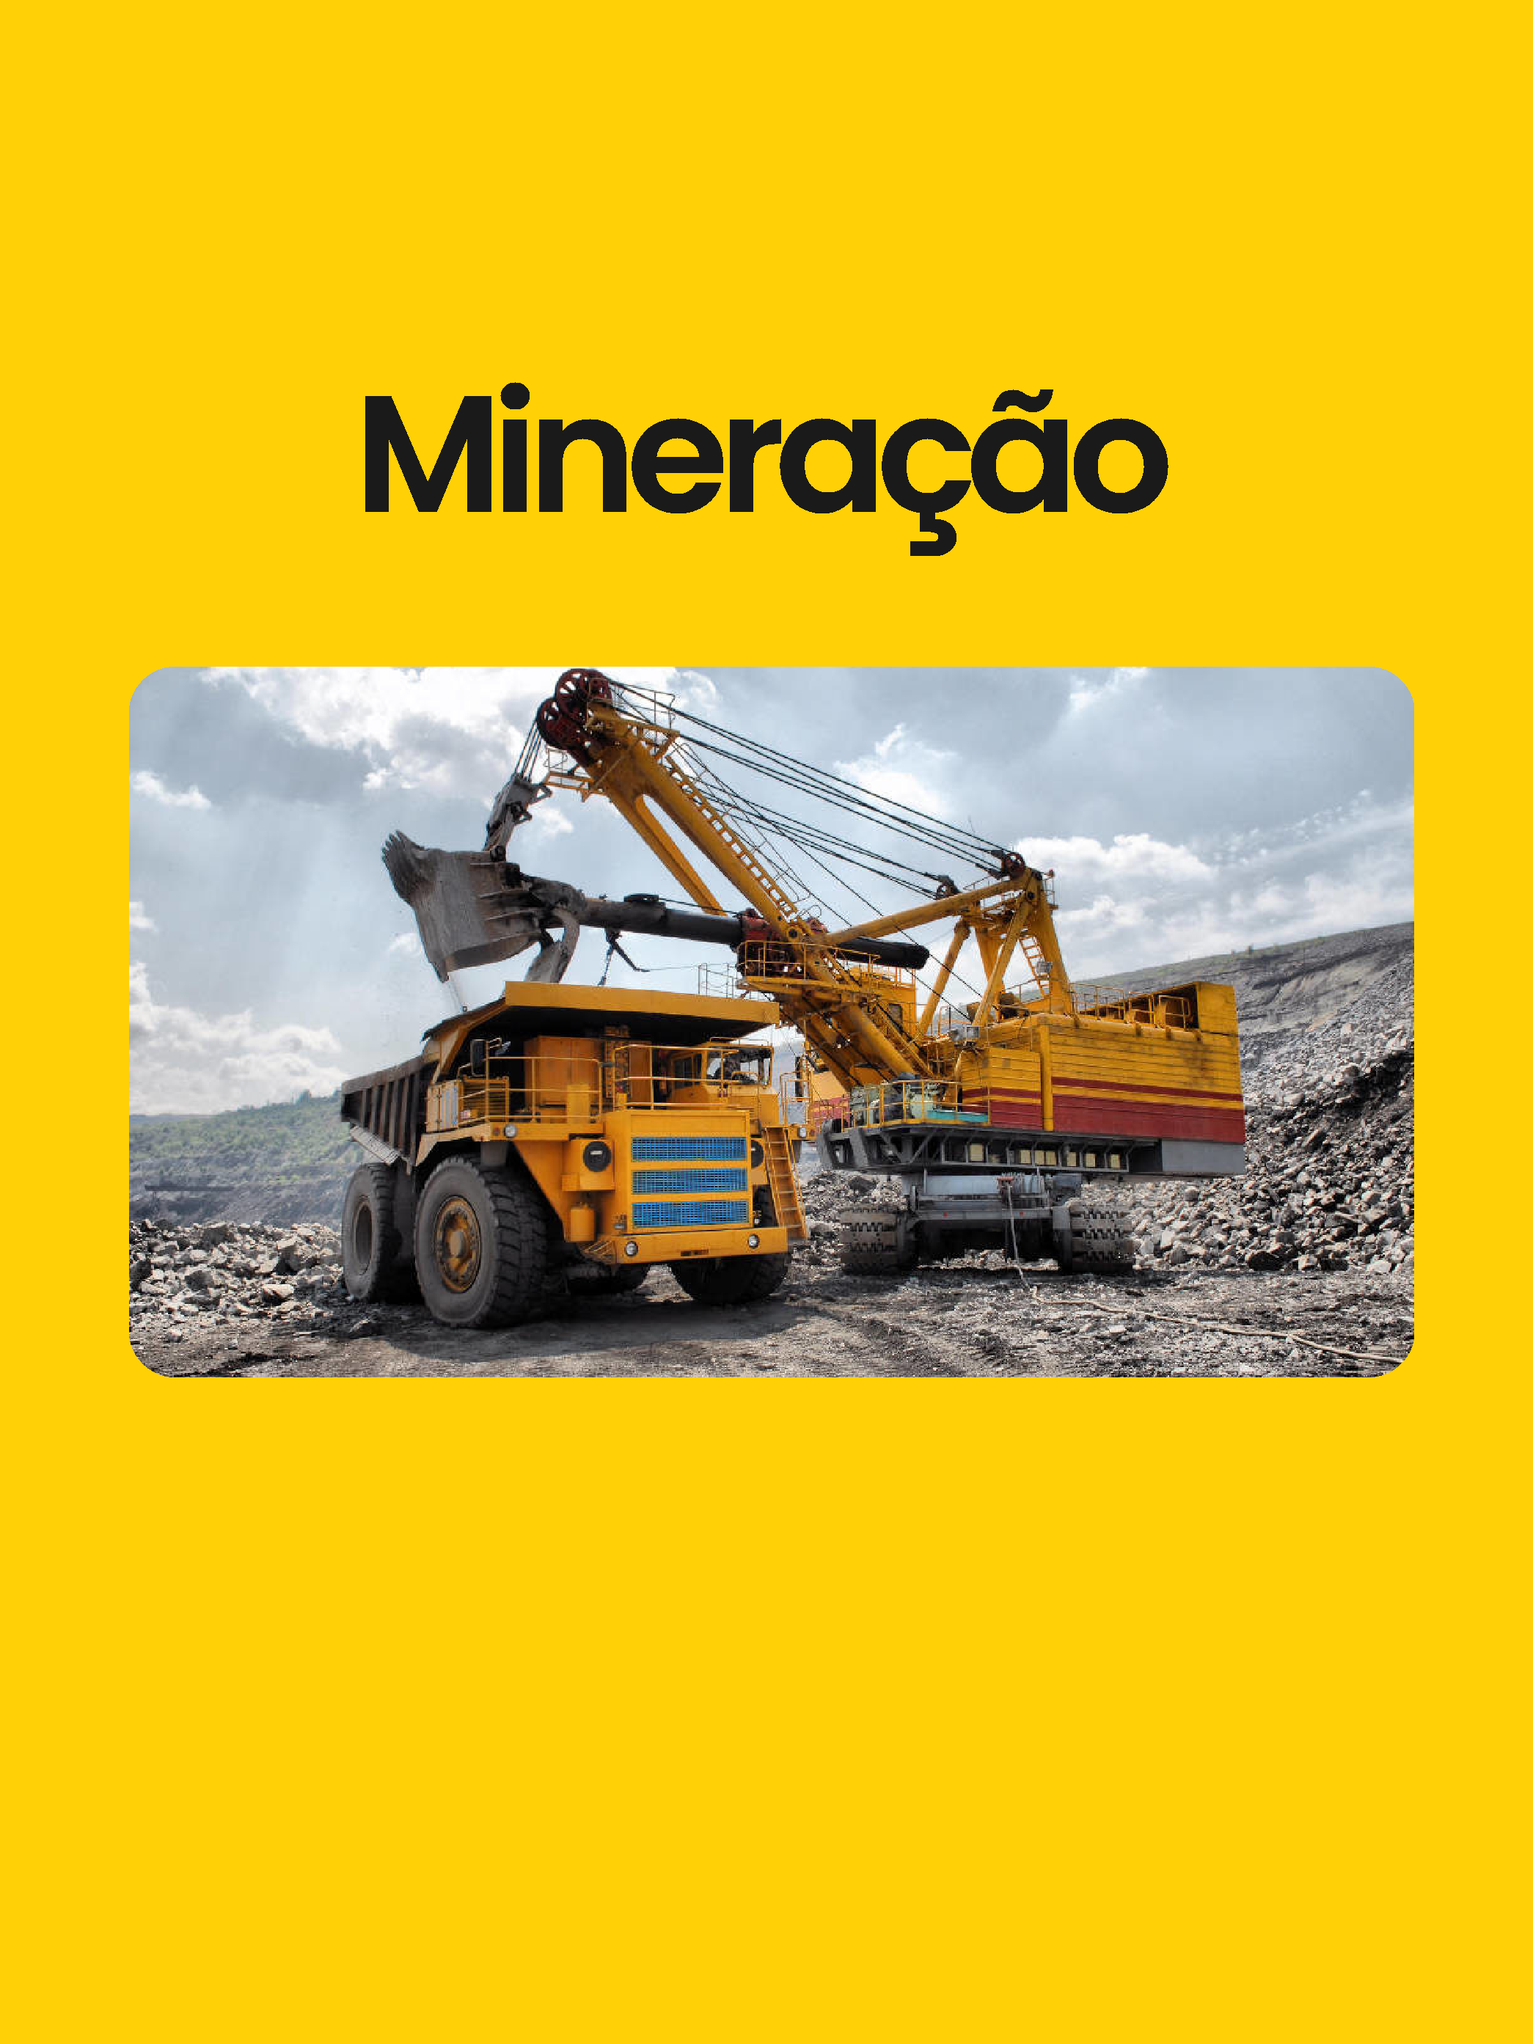
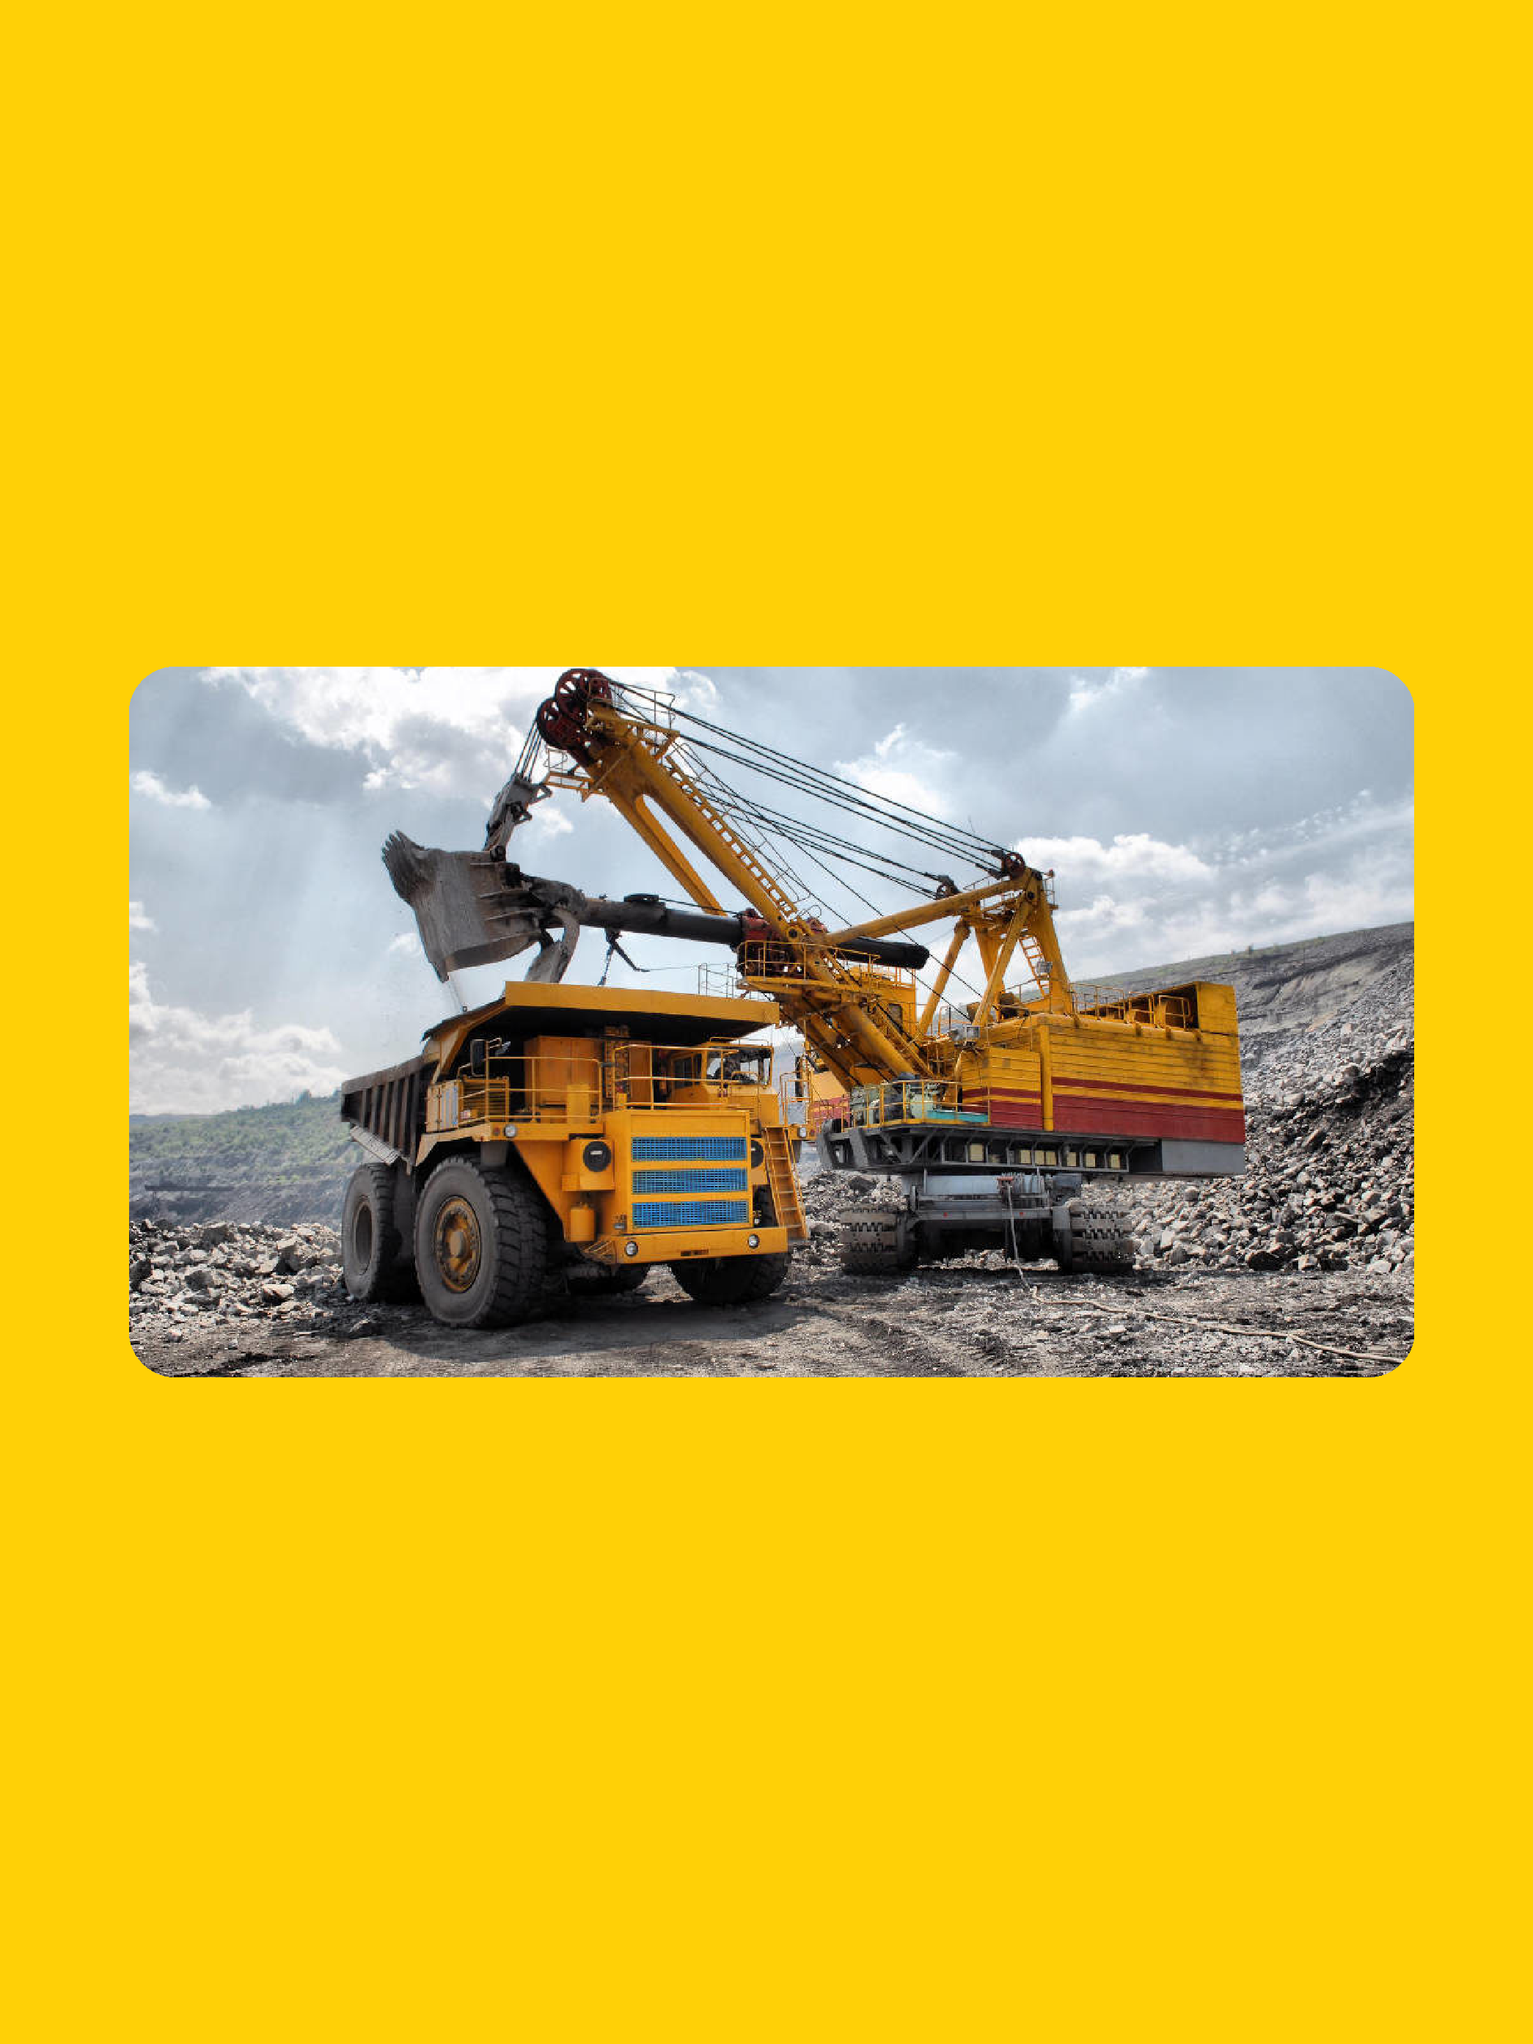
add

Changed region(s): [[0.2177, 0.1873, 0.7775, 0.2809]]

diff --git a/index.html b/index.html
@@ -21,15 +21,15 @@
     <link href="https://cdn.jsdelivr.net/npm/bootstrap-icons@1.4.1/font/bootstrap-icons.css" rel="stylesheet">
 
     <!-- Libraries Stylesheet -->
-    <link href="lib/animate/animate.min.css" rel="stylesheet">
-    <link href="lib/owlcarousel/assets/owl.carousel.min.css" rel="stylesheet">
-    <link href="lib/tempusdominus/css/tempusdominus-bootstrap-4.min.css" rel="stylesheet" />
+    <link href="./lib/animate/animate.min.css" rel="stylesheet">
+    <link href="./lib/owlcarousel/assets/owl.carousel.min.css" rel="stylesheet">
+    <link href="./lib/tempusdominus/css/tempusdominus-bootstrap-4.min.css" rel="stylesheet" />
 
     <!-- Customized Bootstrap Stylesheet -->
-    <link href="css/bootstrap.min.css" rel="stylesheet">
+    <link href="./css/bootstrap.min.css" rel="stylesheet">
 
     <!-- Template Stylesheet -->
-    <link href="css/style.css" rel="stylesheet">
+    <link href="./css/style.css" rel="stylesheet">
 </head>
 
 <body>
@@ -114,74 +114,67 @@
 
 
 
-<!-- Header Start -->
-    <div class="container-fluid header bg-white p-0 mb-5">
+    <!-- Header Start -->
+    <div class="container-fluid header p-0 mb-5">
         <div class="row g-6 align-items-center flex-column-reverse flex-lg-row">
+            <!-- Metade esquerda: Carrossel -->
             <div class="col-lg-6 wow fadeIn" data-wow-delay="0.5s">
                 <div class="d-flex align-items-center justify-content-center" style="height: 100%; margin-bottom: 0;">
-                    <div style="border: 6px solid red; padding: 20px; height: 70vh; width: 50vh; overflow: hidden;">
+                    <div id="carousel-wrapper" style="border: 6px solid red; padding: 20px; height: 70vh; width: 50vh; overflow: hidden;">
                         <div class="owl-carousel header-carousel" style="margin-top: 100px;">
-                            <div class="owl-carousel-item position-relative" style="margin-bottom: 100px; align-items: center;">
+                            <div class="owl-carousel-item" data-bg="url('img/CONSTRUCAO.png')" style="margin-bottom: 100px; align-items: center;">
                                 <h1 class="display-1 text-black mb-0" style="font-size: 40px; text-align: center;">Construção sob demanda</h1>
                                 <p class="text-black" style="font-size: 20px; text-align: center;">O cliente se concentra em seu negócio enquanto nós cuidamos de todos os aspectos da construção</p>
                                 <div class="text-center">
                                     <a class="btn btn-primary rounded-pill py-3 px-5 mt-3">CONHEÇA A HOOKE</a>
                                 </div>
                             </div>
-                            <div class="owl-carousel-item position-relative">
-                                <h1 class="display-1 text-black mb-0">TESTE 1</h1>
-                                <p class="text-black">Pellentesque habitant morbi tristique senectus et netus et malesuada fames ac turpis egestas.</p>
+                            <div class="owl-carousel-item" data-bg="url('img/ELETRICIDADE.png')" style="margin-bottom: 100px; align-items: center;">
+                                <h1 class="display-1 text-black mb-0" style="font-size: 40px; text-align: center;">Instalações Elétricas</h1>
+                                <p class="text-black" style="font-size: 20px; text-align: center;">Segurança e Eficiência para Sua Construção.</p>
                             </div>
-                            <div class="owl-carousel-item position-relative">
-                                <h1 class="display-1 text-black mb-0">TESTE 1</h1>
-                                <p class="text-white">Suspendisse potenti. Vivamus eget sem eget ex dapibus malesuada vitae eu metus.</p>
+                            <div class="owl-carousel-item" data-bg="url('img/MINERACAO.png')" style="margin-bottom: 100px; align-items: center;">
+                                <h1 class="display-1 text-black mb-0" style="font-size: 40px; text-align: center;">Inovação na Mineração</h1>
+                                <p class="text-black" style="font-size: 20px; text-align: center;">Mineração Responsável: Extraindo Riquezas, Preservando o Futuro.</p>
                             </div>
-                            <!-- <div></div> -->
                         </div>
-                        <div class="owl-nav" style="margin-top: 100px;"></div>
-                        <!-- Adicionado margin-top ao controlador do carrossel -->
                     </div>
                 </div>
             </div>
-        <div class="col-lg-6 p-5 wow fadeIn back-head-img" data-wow-delay="0.1s" style="background-image: url('img/01.png'); background-size: cover; background-position: center; height: 100vh;"></div>
+            <!-- Metade direita: Imagem estática -->
+            <div class="col-lg-6 p-5 wow fadeIn back-head-img" data-wow-delay="0.1s" style="background-image: url('img/01.png'); background-size: cover; background-position: center; height: 100vh;"></div>
+        </div>
     </div>
-   
-</div>
+    
 
-<!-- Header End -->
-
-
-
-<div class="col-lg-12 p-5 wow fadeIn " data-wow-delay="0.1s" style="background-image: url('img/02.png'); background-size: contain; background-position: center; background-color:#ffcf34; background-repeat: no-repeat; height: 70vh;">
-
-</div>
+    <!-- Header End -->
 
 
 
-    <!-- About Start -->
-    <div class="container-xxl py-5">
-        <div class="container">
-            <div class="row g-5">
-                <div class="col-lg-6 wow fadeIn" data-wow-delay="0.1s">
-                    <div class="d-flex flex-column">
-                        <img class="img-fluid rounded w-75 align-self-end" src="img/about-1.jpg" alt="">
-                        <img class="img-fluid rounded w-50 bg-white pt-3 pe-3" src="img/about-2.jpg" alt="" style="margin-top: -25%;">
-                    </div>
+   <!-- About Start -->
+   <div class="container-xxl py-5">
+    <div class="container">
+        <div class="row g-5">
+            <div class="col-lg-6 wow fadeIn" data-wow-delay="0.1s">
+                <div class="d-flex flex-column">
+                    <img class="img-fluid rounded w-75 align-self-end" src='img/ELETRICIDADE.png' alt="">
+                    <img class="img-fluid rounded w-50 bg-white pt-3 pe-3" src='img/QUEMSOMOS.png' alt="" style="margin-top: -25%;">
                 </div>
-                <div class="col-lg-6 wow fadeIn" data-wow-delay="0.5s">
-                    <p class="d-inline-block border rounded-pill py-1 px-4">Quem somos</p>
-                    <h1 class="mb-4">Quem somos</h1>
-                    <p>Tempor erat elitr rebum at clita. Diam dolor diam ipsum sit. Aliqu diam amet diam et eos. Clita erat ipsum et lorem et sit, sed stet lorem sit clita duo justo magna dolore erat amet</p>
-                    <p class="mb-4">Stet no et lorem dolor et diam, amet duo ut dolore vero eos. No stet est diam rebum amet diam ipsum. Clita clita labore, dolor duo nonumy clita sit at, sed sit sanctus dolor eos.</p>
-                    <p><i class="far fa-check-circle text-primary me-3"></i>Quality health care</p>
-                    <p><i class="far fa-check-circle text-primary me-3"></i>Only Qualified Doctors</p>
-                    <p><i class="far fa-check-circle text-primary me-3"></i>Medical Research Professionals</p>
-                    <a class="btn btn-primary rounded-pill py-3 px-5 mt-3" href="">Read More</a>
-                </div>
+            </div>
+            <div class="col-lg-6 wow fadeIn" data-wow-delay="0.5s">
+                <p class="d-inline-block border rounded-pill py-1 px-4">Quem somos</p>
+                <h1 class="mb-4">Quem somos</h1>
+                <p>Na Hooke, somos especialistas em soluções inovadoras e eficientes para a construção civil e além. Com um compromisso inabalável com a qualidade e a excelência, oferecemos serviços de instalação elétrica, mineração e muito mais. Nossa equipe é formada por profissionais experientes que trabalham com paixão e dedicação para transformar seus projetos em realidade.</p>
+                <p class="mb-4">Nosso objetivo é proporcionar soluções sustentáveis e de alta performance, respeitando os mais rigorosos padrões de segurança e eficiência. Na Hooke, cada projeto é uma oportunidade para entregar resultados que superam as expectativas, combinando expertise técnica e inovação para atender às suas necessidades.</p>
+                <p><i class="far fa-check-circle text-primary me-3"></i>Alta performance</p>
+                <p><i class="far fa-check-circle text-primary me-3"></i>Segurança</p>
+                <p><i class="far fa-check-circle text-primary me-3"></i>Eficiência</p>
+                <a class="btn btn-primary rounded-pill py-3 px-5 mt-3" href="">Saiba mais</a>
             </div>
         </div>
-    </div> 
-    <!-- About End -->
+    </div>
+</div>
+<!-- About End -->
 
 
     <!-- Service Start -->
@@ -194,6 +187,9 @@
             <div class="row g-4">
                 <div class="col-lg-3 col-md-12 wow fadeInUp" data-wow-delay="0.1s">
                     <div class="service-item bg-yellowhooke rounded h-100 pb-2">
+                        <div class="text-overlay"> <!-- Adicione esta div para o texto -->
+                            <h5>Texto Centralizado</h5>
+                        </div>
                         <img src="./img/services-1.png" alt="mineration-image" style="width: 100%; height: 90%; object-fit: cover;">
                         <div style="align-items: center; justify-content: center">
                             <a class="btn" href=""><i class="fa fa-plus text-primary me-3" ></i>Read More</a>
@@ -203,7 +199,11 @@
 
                 <div class="col-lg-3 col-md-12 wow fadeInUp" data-wow-delay="0.1s">
                     <div class="service-item bg-yellowhooke rounded h-100 pb-2">
+                        <div class="text-overlay"> <!-- Adicione esta div para o texto -->
+                            <h5>Texto Centralizado</h5>
+                        </div>
                         <img src="./img/services-2.png" alt="mineration-image" style="width: 100%; height: 90%; object-fit: cover;">
+                        
                         <div style="align-items: center; justify-content: center; align-self:center;">
                             <a class="btn" href=""><i class="fa fa-plus text-primary me-3" ></i>Read More</a>
 
@@ -212,6 +212,9 @@
                 </div>
                 <div class="col-lg-3 col-md-6 wow fadeInUp" data-wow-delay="0.1s">
                     <div class="service-item bg-yellowhooke rounded h-100 pb-2">
+                        <div class="text-overlay"> <!-- Adicione esta div para o texto -->
+                            <h5>Texto Centralizado</h5>
+                        </div>
                         <img src="./img/services-3.png" alt="mineration-image" style="width: 100%; height: 90%; object-fit: cover;">
                         <div style="align-items: center; justify-content: center">
                             <a class="btn" href=""><i class="fa fa-plus text-primary me-3" ></i>Read More</a>
@@ -220,6 +223,9 @@
                 </div>
                 <div class="col-lg-3 col-md-6 wow fadeInUp" data-wow-delay="0.1s">
                     <div class="service-item bg-yellowhooke rounded h-100 pb-2">
+                        <div class="text-overlay"> <!-- Adicione esta div para o texto -->
+                            <h5>Texto Centralizado</h5>
+                        </div>
                         <img src="./img/services-4.png" alt="mineration-image" style="width: 100%; height: 90%; object-fit: cover;">
                         <div style="align-items: center; justify-content: center">
                             <a class="btn" href=""><i class="fa fa-plus text-primary me-3" ></i>Read More</a>
@@ -228,6 +234,9 @@
                 </div>
                 <div class="col-lg-3 col-md-6 wow fadeInUp" data-wow-delay="0.1s">
                     <div class="service-item bg-yellowhooke rounded h-100 pb-2">
+                        <div class="text-overlay"> <!-- Adicione esta div para o texto -->
+                            <h5>Texto Centralizado</h5>
+                        </div>
                         <img src="./img/services-5.png" alt="mineration-image" style="width: 100%; height: 90%; object-fit: cover;">
                         <div style="align-items: center; justify-content: center">
                             <a class="btn" href=""><i class="fa fa-plus text-primary me-3" ></i>Read More</a>
@@ -236,6 +245,9 @@
                 </div>
                 <div class="col-lg-3 col-md-6 wow fadeInUp" data-wow-delay="0.1s">
                     <div class="service-item bg-yellowhooke rounded h-100 pb-2">
+                        <div class="text-overlay"> <!-- Adicione esta div para o texto -->
+                            <h5>Texto Centralizado</h5>
+                        </div>
                         <img src="./img/services-6.png" alt="mineration-image" style="width: 100%; height: 90%; object-fit: cover;">
                         <div style="align-items: center; justify-content: center">
                             <a class="btn" href=""><i class="fa fa-plus text-primary me-3" ></i>Read More</a>
@@ -260,7 +272,7 @@
                 </div>
             </div>
         </div>
-    </div> 
+    </div>
     <!-- Service End -->
 
 

diff --git a/css/style.css b/css/style.css
@@ -317,6 +317,22 @@
     border-color: var(--primary);
 }
 
+.header-carousel .owl-carousel-item {
+    height: 100vh; /* Para garantir que os itens do carrossel ocupem a altura total */
+    background-size: cover;
+    background-position: center;
+    
+}
+
+#carousel-wrapper {
+    position: relative;
+    width: 100%;
+    height: 100vh; /* Define a altura como a altura da janela */
+    background-size: cover;
+    background-position: center;
+    
+}
+
 .page-header {
     background: url(./img/header-page.jpg) top center no-repeat;
     background-size: cover;
@@ -373,6 +389,28 @@
 
 .service-item:hover .btn {
     width: 140px;
+}
+
+.text-overlay {
+   
+    top: 0; /* Alinha o texto na parte superior */
+    left: 50%; /* Centraliza o texto horizontalmente */
+   
+    width: 100%; /* Garante que o texto ocupe toda a largura do card */
+    text-align: center; /* Centraliza o texto */
+    padding-top: 10px; /* Espaçamento ao redor do texto */
+    
+   
+}
+
+@media (max-width: 768px) {
+    #carousel-wrapper {
+        background-size: contain;
+    }
+
+    .header-carousel .owl-carousel-item {
+        height: auto; /* Ajustar a altura dos itens para dispositivos móveis */
+    }
 }
 
 

diff --git a/js/main.js b/js/main.js
@@ -70,6 +70,23 @@
         ]
     });
 
+    // Alterar background da div externa conforme o item do carrossel ativo
+    var owl = $('.header-carousel');
+    owl.on('changed.owl.carousel', function(event) {
+        // Pega o índice do item ativo
+        var currentItemIndex = event.item.index;
+        
+        // Seleciona o item ativo e pega o valor do atributo 'data-bg'
+        var currentItem = $(event.target).find('.owl-carousel-item').eq(currentItemIndex);
+        var backgroundUrl = currentItem.data('bg');
+
+        // Troca o background da div externa
+        $('#carousel-wrapper').css('background-image', backgroundUrl);
+    });
+
+    // Dispara o evento ao carregar a página para ajustar o background inicial
+    owl.trigger('changed.owl.carousel', { item: { index: 0 } });
+
 
     // Testimonials carousel
     $(".testimonial-carousel").owlCarousel({
@@ -112,4 +129,3 @@
 
     
 })(jQuery);
-
